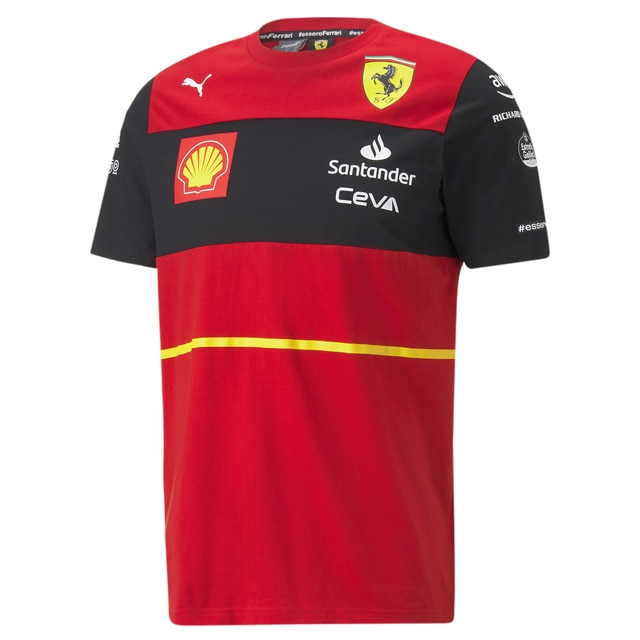
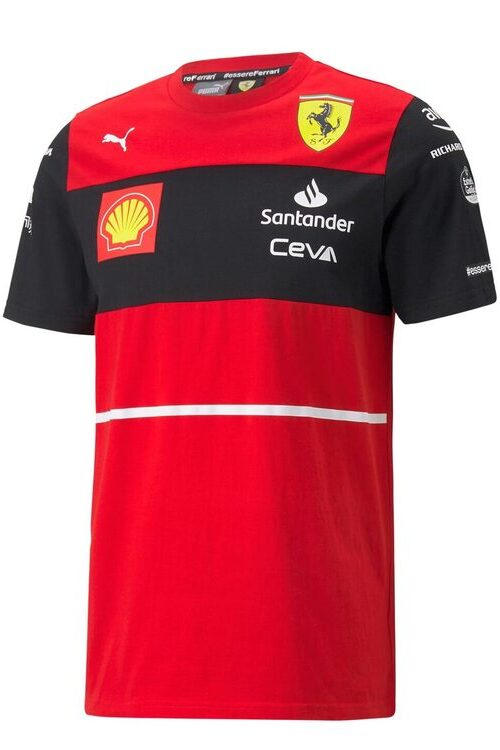
actualizacion del carrusel
carrusel actualizado para que se vea todo igual

diff --git a/epd3-2/public/css/inicio.css b/epd3-2/public/css/inicio.css
@@ -1,0 +1,8 @@
+.carousel-img {
+    width: 500px;
+    height: 750px;
+  }
+
+.carousel-control-prev-icon, .carousel-control-next-icon {
+    background-color: black;
+}

diff --git a/epd3-2/public/css/general.css b/epd3-2/public/css/general.css
@@ -1,0 +1,7 @@
+footer {
+    background-color: black;
+    color: white;
+  }
+.container {
+    min-height: 100vh;
+}

diff --git a/EPD3-2/resources/views/welcome.blade.php b/EPD3-2/resources/views/welcome.blade.php
@@ -10,19 +10,13 @@
         <link href="https://fonts.bunny.net/css2?family=Nunito:wght@400;600;700&display=swap" rel="stylesheet">
 
         <!-- Styles -->
-        <style>
-            /*! normalize.css v8.0.1 | MIT License | github.com/necolas/normalize.css */html{line-height:1.15;-webkit-text-size-adjust:100%}body{margin:0}a{background-color:transparent}[hidden]{display:none}html{font-family:system-ui,-apple-system,BlinkMacSystemFont,Segoe UI,Roboto,Helvetica Neue,Arial,Noto Sans,sans-serif,Apple Color Emoji,Segoe UI Emoji,Segoe UI Symbol,Noto Color Emoji;line-height:1.5}*,:after,:before{box-sizing:border-box;border:0 solid #e2e8f0}a{color:inherit;text-decoration:inherit}svg,video{display:block;vertical-align:middle}video{max-width:100%;height:auto}.bg-white{--tw-bg-opacity: 1;background-color:rgb(255 255 255 / var(--tw-bg-opacity))}.bg-gray-100{--tw-bg-opacity: 1;background-color:rgb(243 244 246 / var(--tw-bg-opacity))}.border-gray-200{--tw-border-opacity: 1;border-color:rgb(229 231 235 / var(--tw-border-opacity))}.border-t{border-top-width:1px}.flex{display:flex}.grid{display:grid}.hidden{display:none}.items-center{align-items:center}.justify-center{justify-content:center}.font-semibold{font-weight:600}.h-5{height:1.25rem}.h-8{height:2rem}.h-16{height:4rem}.text-sm{font-size:.875rem}.text-lg{font-size:1.125rem}.leading-7{line-height:1.75rem}.mx-auto{margin-left:auto;margin-right:auto}.ml-1{margin-left:.25rem}.mt-2{margin-top:.5rem}.mr-2{margin-right:.5rem}.ml-2{margin-left:.5rem}.mt-4{margin-top:1rem}.ml-4{margin-left:1rem}.mt-8{margin-top:2rem}.ml-12{margin-left:3rem}.-mt-px{margin-top:-1px}.max-w-6xl{max-width:72rem}.min-h-screen{min-height:100vh}.overflow-hidden{overflow:hidden}.p-6{padding:1.5rem}.py-4{padding-top:1rem;padding-bottom:1rem}.px-6{padding-left:1.5rem;padding-right:1.5rem}.pt-8{padding-top:2rem}.fixed{position:fixed}.relative{position:relative}.top-0{top:0}.right-0{right:0}.shadow{--tw-shadow: 0 1px 3px 0 rgb(0 0 0 / .1), 0 1px 2px -1px rgb(0 0 0 / .1);--tw-shadow-colored: 0 1px 3px 0 var(--tw-shadow-color), 0 1px 2px -1px var(--tw-shadow-color);box-shadow:var(--tw-ring-offset-shadow, 0 0 #0000),var(--tw-ring-shadow, 0 0 #0000),var(--tw-shadow)}.text-center{text-align:center}.text-gray-200{--tw-text-opacity: 1;color:rgb(229 231 235 / var(--tw-text-opacity))}.text-gray-300{--tw-text-opacity: 1;color:rgb(209 213 219 / var(--tw-text-opacity))}.text-gray-400{--tw-text-opacity: 1;color:rgb(156 163 175 / var(--tw-text-opacity))}.text-gray-500{--tw-text-opacity: 1;color:rgb(107 114 128 / var(--tw-text-opacity))}.text-gray-600{--tw-text-opacity: 1;color:rgb(75 85 99 / var(--tw-text-opacity))}.text-gray-700{--tw-text-opacity: 1;color:rgb(55 65 81 / var(--tw-text-opacity))}.text-gray-900{--tw-text-opacity: 1;color:rgb(17 24 39 / var(--tw-text-opacity))}.underline{text-decoration:underline}.antialiased{-webkit-font-smoothing:antialiased;-moz-osx-font-smoothing:grayscale}.w-5{width:1.25rem}.w-8{width:2rem}.w-auto{width:auto}.grid-cols-1{grid-template-columns:repeat(1,minmax(0,1fr))}@media (min-width:640px){.sm\:rounded-lg{border-radius:.5rem}.sm\:block{display:block}.sm\:items-center{align-items:center}.sm\:justify-start{justify-content:flex-start}.sm\:justify-between{justify-content:space-between}.sm\:h-20{height:5rem}.sm\:ml-0{margin-left:0}.sm\:px-6{padding-left:1.5rem;padding-right:1.5rem}.sm\:pt-0{padding-top:0}.sm\:text-left{text-align:left}.sm\:text-right{text-align:right}}@media (min-width:768px){.md\:border-t-0{border-top-width:0}.md\:border-l{border-left-width:1px}.md\:grid-cols-2{grid-template-columns:repeat(2,minmax(0,1fr))}}@media (min-width:1024px){.lg\:px-8{padding-left:2rem;padding-right:2rem}}@media (prefers-color-scheme:dark){.dark\:bg-gray-800{--tw-bg-opacity: 1;background-color:rgb(31 41 55 / var(--tw-bg-opacity))}.dark\:bg-gray-900{--tw-bg-opacity: 1;background-color:rgb(17 24 39 / var(--tw-bg-opacity))}.dark\:border-gray-700{--tw-border-opacity: 1;border-color:rgb(55 65 81 / var(--tw-border-opacity))}.dark\:text-white{--tw-text-opacity: 1;color:rgb(255 255 255 / var(--tw-text-opacity))}.dark\:text-gray-400{--tw-text-opacity: 1;color:rgb(156 163 175 / var(--tw-text-opacity))}.dark\:text-gray-500{--tw-text-opacity: 1;color:rgb(107 114 128 / var(--tw-text-opacity))}}
-        </style>
+         @vite(['resources/js/app.js'])
+        <link rel="stylesheet" href="{{ asset('css/general.css') }}">
+        @yield('scs')
 
-        <style>
-            body {
-                font-family: 'Nunito', sans-serif;
-            }
-        </style>
-        @vite(['resources/js/app.js'])
     </head>
     <body class="antialiased">
-        <nav class="navbar navbar-expand-lg navbar-light bg-light">
+        <nav class="navbar navbar-expand-lg navbar-dark bg-dark">
             <div class="container-fluid">
               <a class="navbar-brand" href="#">UPOF1</a>
               <button class="navbar-toggler" type="button" data-bs-toggle="collapse" data-bs-target="#navbarNav" aria-controls="navbarNav" aria-expanded="false" aria-label="Toggle navigation">
@@ -31,28 +25,28 @@
               <div class="collapse navbar-collapse" id="navbarNav">
                 <ul class="navbar-nav">
                   <li class="nav-item">
-                    <a class="nav-link" href="#">Inicio</a>
+                    <a class="nav-link text-white" href="#">Inicio</a>
                   </li>
                   <li class="nav-item">
-                    <a class="nav-link" href="#">Productos</a>
+                    <a class="nav-link text-white" href="#">Productos</a>
                   </li>
                   <li class="nav-item">
-                    <a class="nav-link" href="#">Ofertas</a>
+                    <a class="nav-link text-white" href="#">Ofertas</a>
                   </li>
                   <li class="nav-item">
-                    <a class="nav-link" href="#">Contacto</a>
+                    <a class="nav-link text-white" href="#">Contacto</a>
                   </li>
                 </ul>
                 <div class="navbar-nav ms-auto">
                   @if (Route::has('login'))
                   <div class="d-flex">
                     @auth
-                    <a href="{{ url('/home') }}" class="nav-link">Home</a>
+                    <a href="{{ url('/home') }}" class="nav-link text-white">Home</a>
                     @else
-                    <a href="{{ route('login') }}" class="nav-link">Log in</a>
+                    <a href="{{ route('login') }}" class="nav-link text-white">Log in</a>
 
                     @if (Route::has('register'))
-                    <a href="{{ route('register') }}" class="nav-link">Register</a>
+                    <a href="{{ route('register') }}" class="nav-link text-white">Register</a>
                     @endif
                     @endauth
                   </div>
@@ -61,15 +55,16 @@
               </div>
             </div>
           </nav>
+
           @yield('contenido')
-          <footer class="d-flex flex-wrap justify-content-between align-items-center py-3 my-4 border-top">
+          <footer class="d-flex flex-wrap justify-content-between align-items-center py-3 mx-auto border-top">
             <div class="col-md-4 d-flex align-items-center">
               <a href="/" class="mb-3 me-2 mb-md-0 text-muted text-decoration-none lh-1">
                 <svg class="bi" width="30" height="24"><use xlink:href="#bootstrap"></use></svg>
               </a>
-              <span class="mb-3 mb-md-0 text-muted">© 2022 Company, Inc</span>
+              <span class="mb-3 mb-md-0 text-muted">© 2023 UPO-F1, Inc</span>
             </div>
-            <ul class="nav col-md-4 justify-content-end list-unstyled d-flex">
+            <ul class="nav mx-auto col-md-4 justify-content-end list-unstyled d-flex">
               <li class="ms-3"><a class="text-muted" href="#"><svg xmlns="http://www.w3.org/2000/svg" width="16" height="16" fill="currentColor" class="bi bi-twitter">
                 <path d="M5.026 15c6.038 0 9.341-5.003 9.341-9.334 0-.14 0-.282-.006-.422A6.685 6.685 0 0 0 16 3.542a6.658 6.658 0 0 1-1.889.518 3.301 3.301 0 0 0 1.447-1.817 6.533 6.533 0 0 1-2.087.793A3.286 3.286 0 0 0 7.875 6.03a9.325 9.325 0 0 1-6.767-3.429 3.289 3.289 0 0 0 1.018 4.382A3.323 3.323 0 0 1 .64 6.575v.045a3.288 3.288 0 0 0 2.632 3.218 3.203 3.203 0 0 1-.865.115 3.23 3.23 0 0 1-.614-.057 3.283 3.283 0 0 0 3.067 2.277A6.588 6.588 0 0 1 .78 13.58a6.32 6.32 0 0 1-.78-.045A9.344 9.344 0 0 0 5.026 15z"/>
               </svg></a></li>

diff --git a/epd3-2/resources/views/inicio.blade.php b/epd3-2/resources/views/inicio.blade.php
@@ -1,5 +1,8 @@
 @extends('welcome')
 @section('title',"UPOF1")
+@section('scs')
+<link rel="stylesheet" href="{{ asset('css/inicio.css') }}">
+@endsection
 @section('contenido')
 <div class="container mt-5">
     <div class="row">
@@ -12,15 +15,14 @@
         <div id="carouselExampleControls" class="carousel slide" data-bs-ride="carousel">
             <div class="carousel-inner">
               <div class="carousel-item active">
-                <img src="{{URL::asset('/img/Merchandising1.jpg')}}" class="d-block w-100" alt="Merchandising 1"/>
+                <img src="{{URL::asset('/img/Merchandising1.jpg')}}" class="d-block w-100 carousel-img" alt="Merchandising 1"/>
               </div>
               <div class="carousel-item">
-                <img src="{{URL::asset('/img/Merchandising2.jpg')}}" class="d-block w-100" alt="Merchandising 2">
+                <img src="{{URL::asset('/img/Merchandising2.jpg')}}" class="d-block w-100 carousel-img" alt="Merchandising 2">
               </div>
               <div class="carousel-item">
-                <img src="{{URL::asset('/img/Merchandising3.jpg')}}" class="d-block w-100" alt="Merchandising 3">
+                <img src="{{URL::asset('/img/Merchandising3.jpg')}}" class="d-block w-100 carousel-img" alt="Merchandising 3">
               </div>
-
             </div>
             <button class="carousel-control-prev" type="button" data-bs-target="#carouselExampleControls" data-bs-slide="prev">
               <span class="carousel-control-prev-icon" aria-hidden="true"></span>
